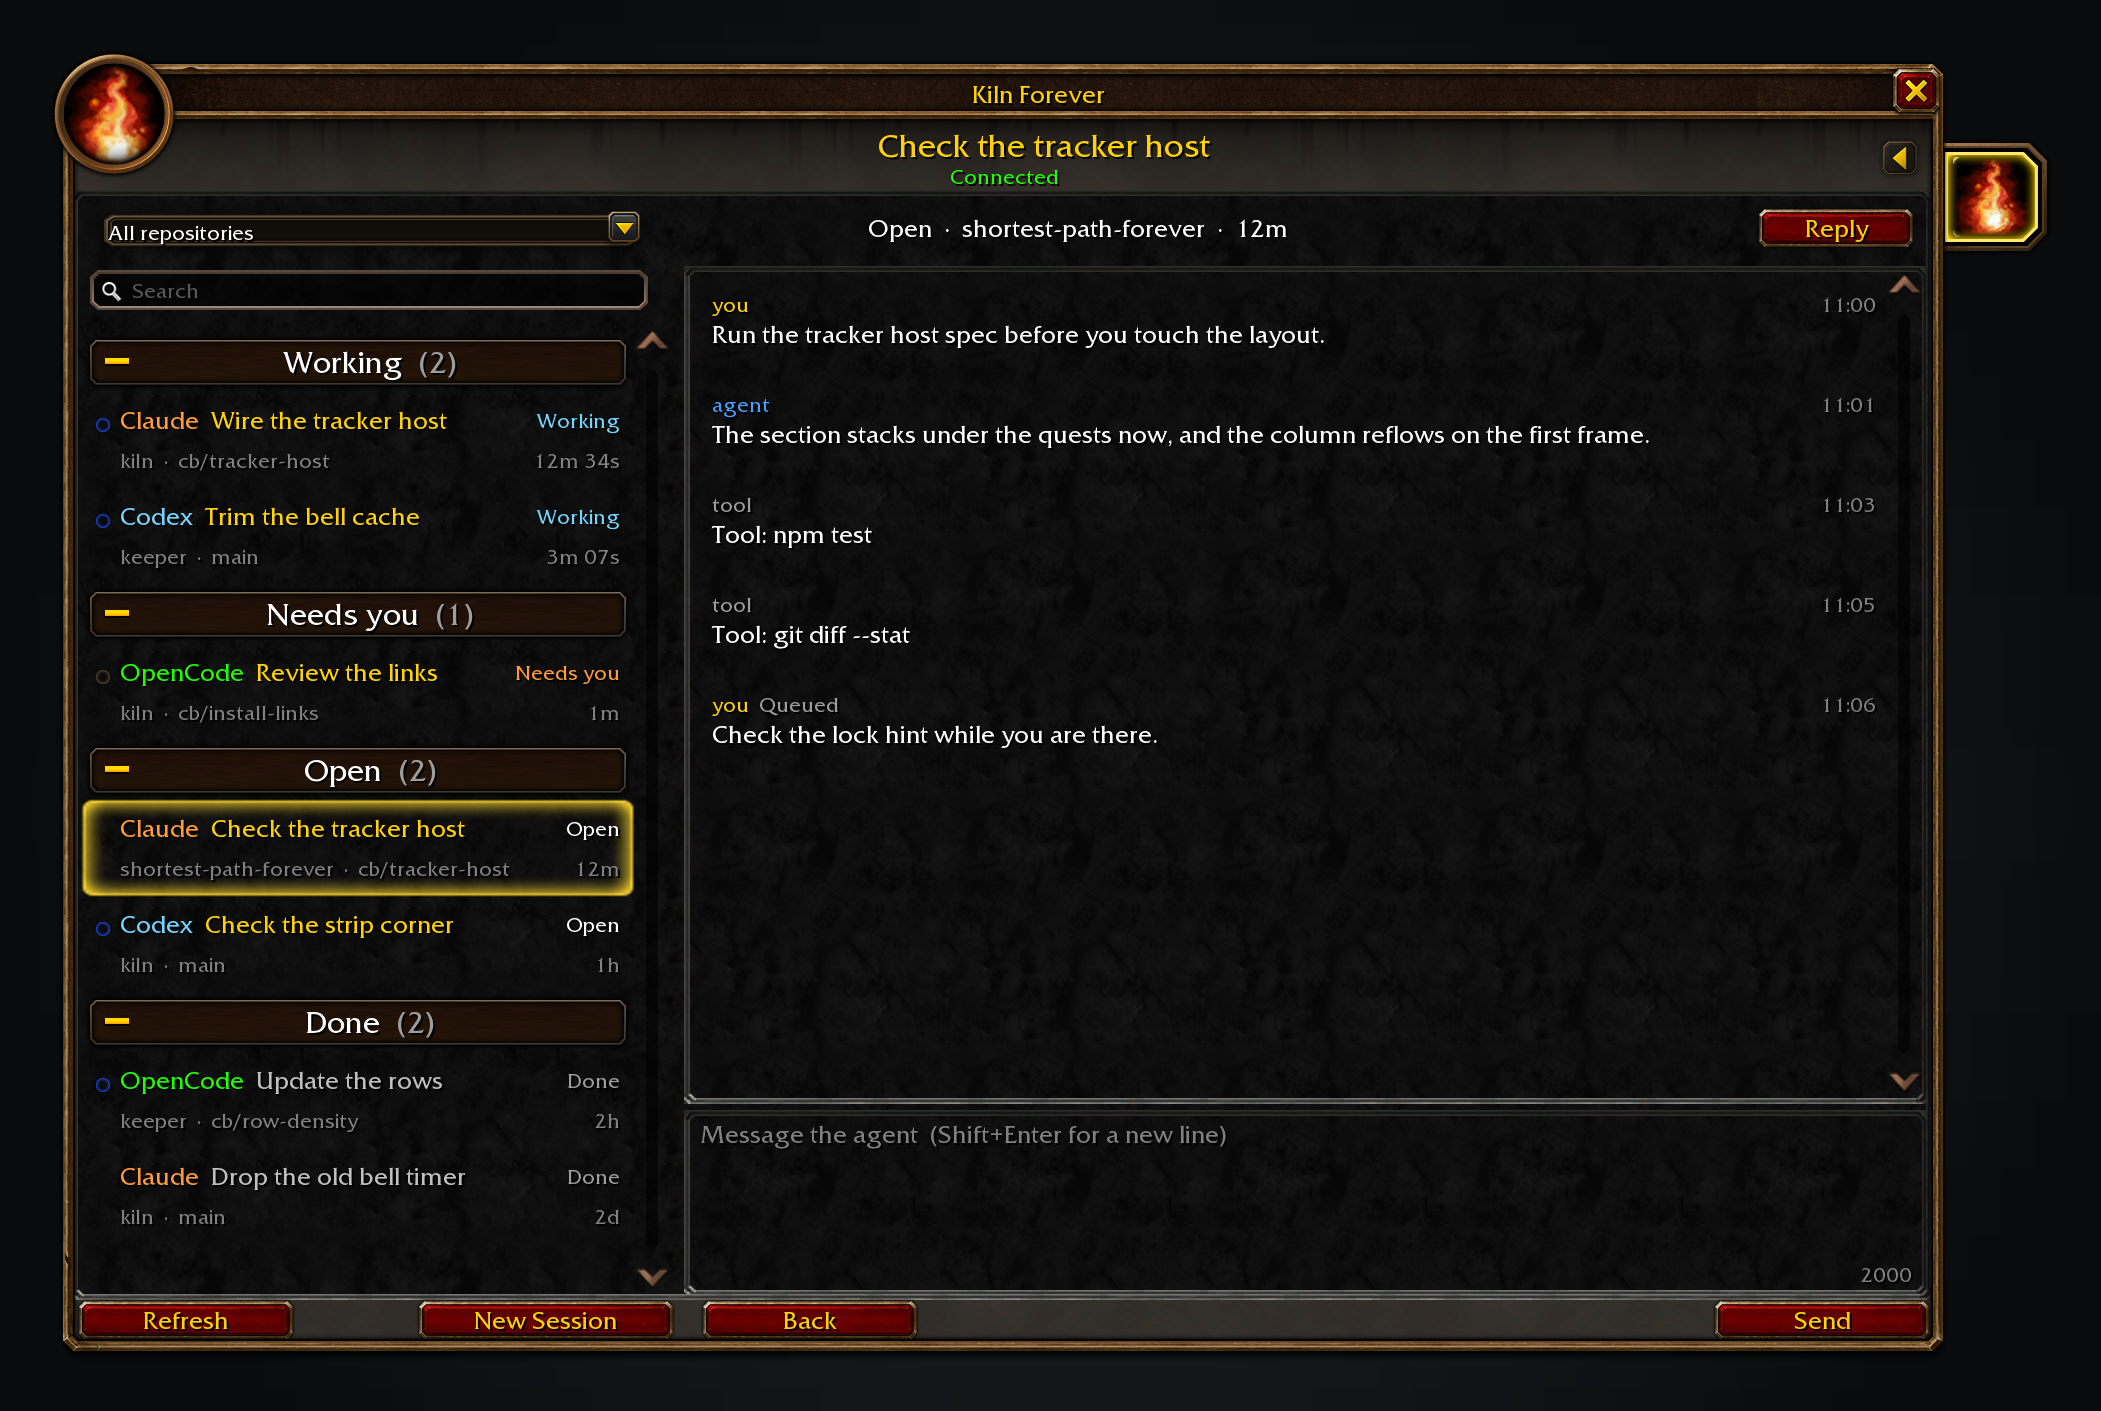
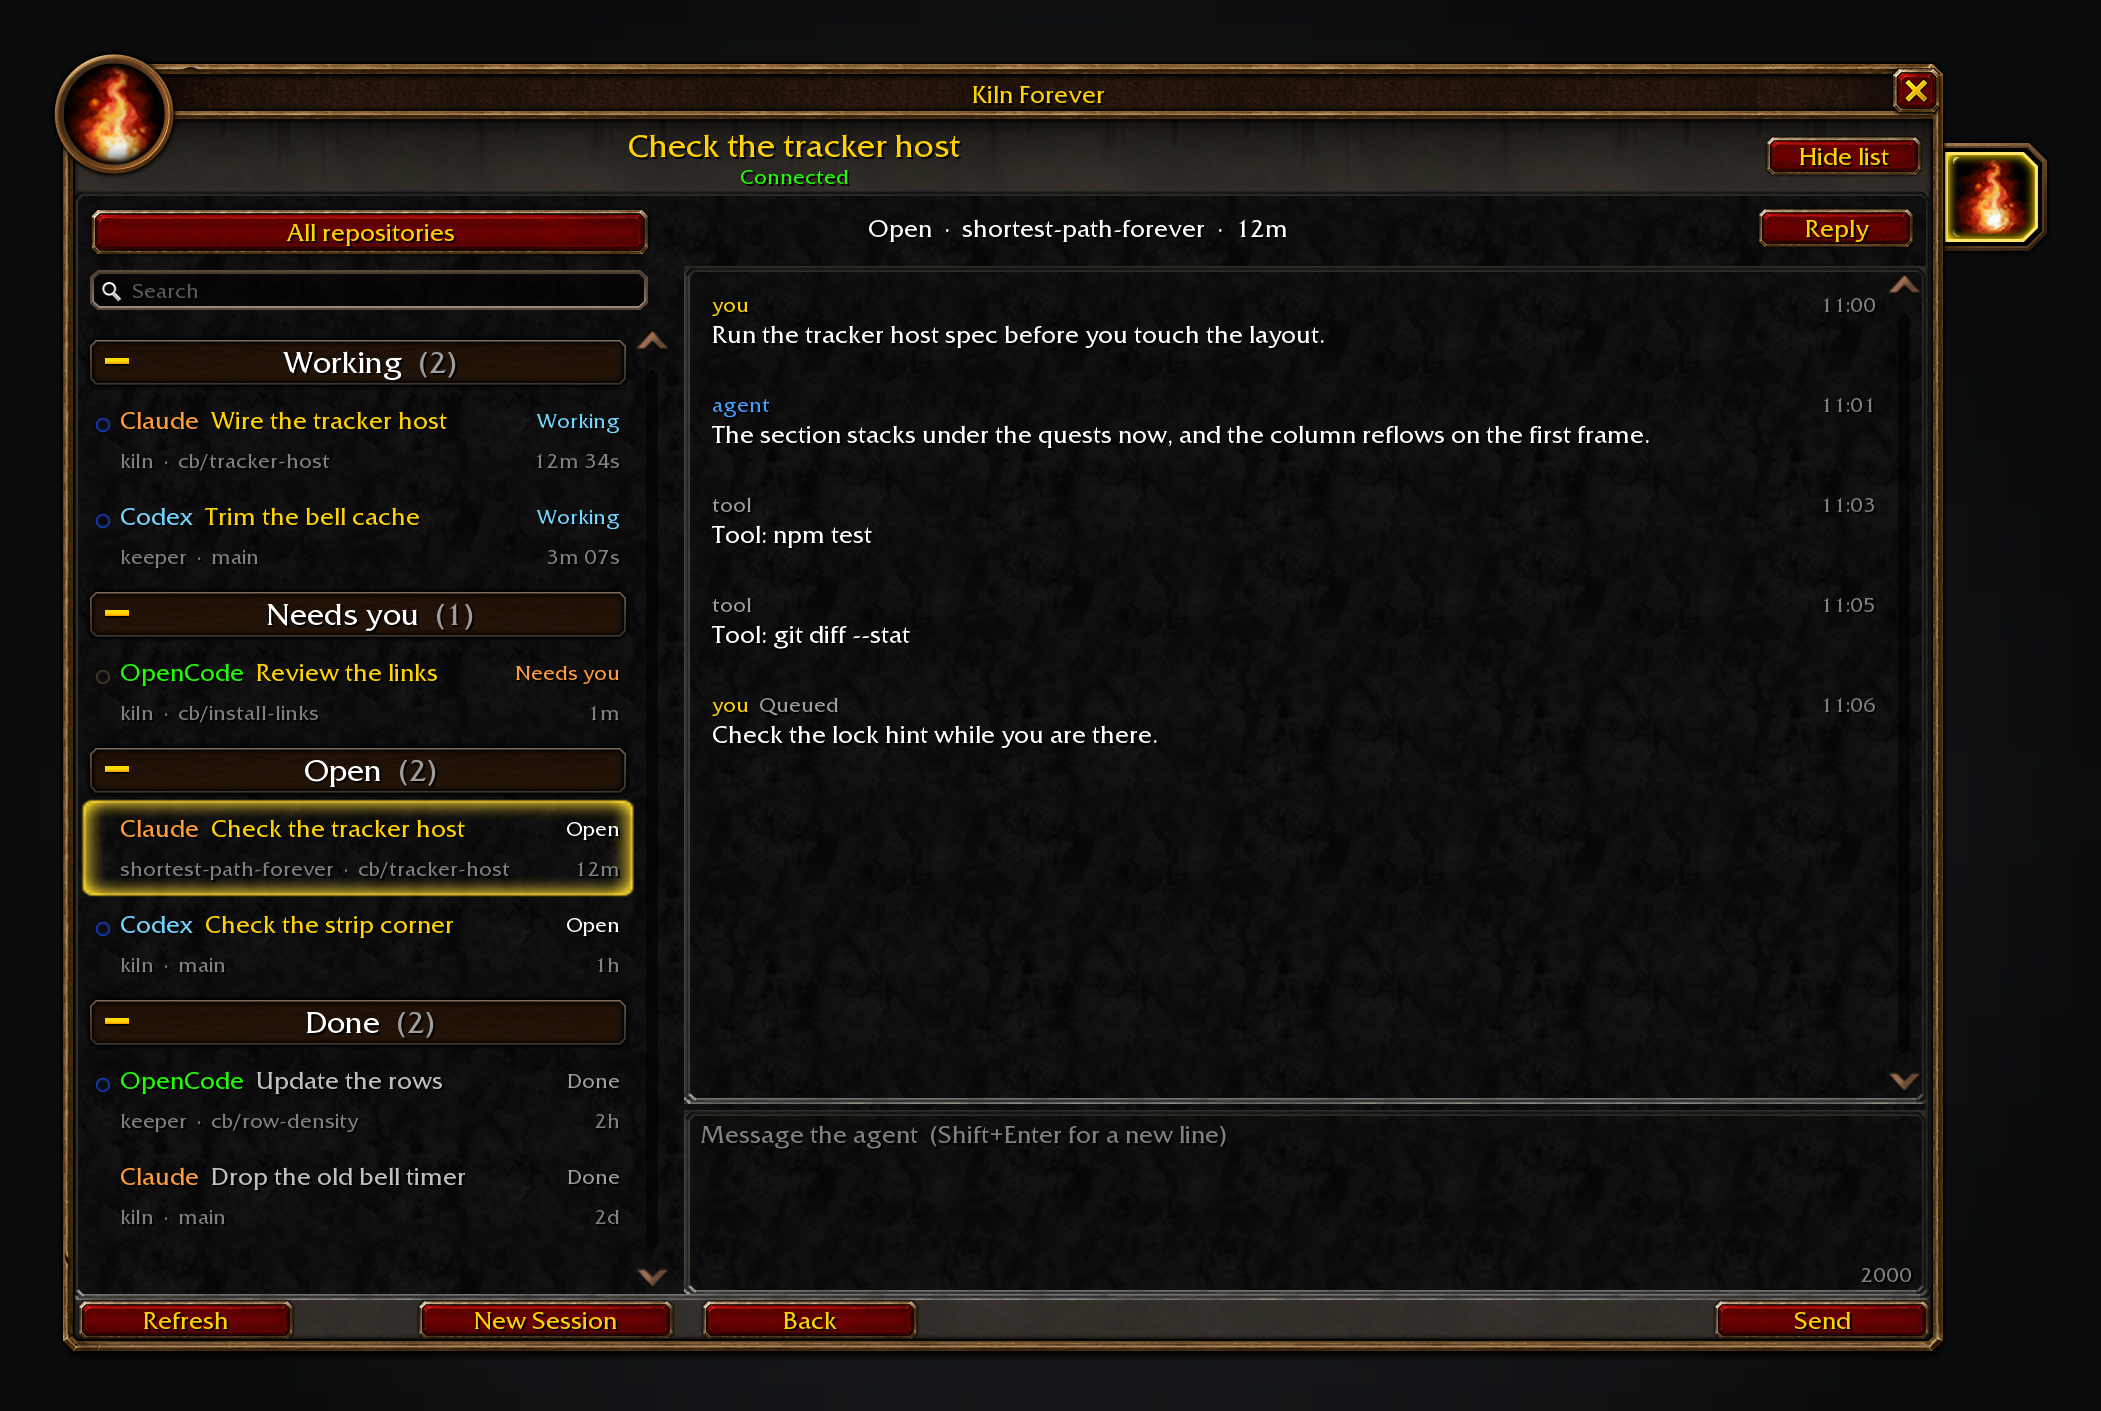
fix(ui): use stock Kiln sidebar and picker controls
Use shared buttons and a native inset for the searchable picker.
Reserve header space for both actions and show the result at both widths.

Changed region(s): [[0.0309, 0.1247, 0.3094, 0.1871], [0.3094, 0.0936, 0.5878, 0.1559], [0.8353, 0.0936, 0.9281, 0.1247]]

diff --git a/tools/screenshots.py b/tools/screenshots.py
@@ -278,21 +278,26 @@ def groups():
 # ------------------------------------------------------------------------------------------ window helpers
 
 
-def draw_dropdown(canvas, x, y, w, h, text):
-    """UI.Cycler (Widgets.lua): the dropdown textholder behind, the arrow at RIGHT (-3, 0), and the
-    GameFontHighlightSmall label from LEFT (10, 0) to the arrow's LEFT (-4, 0)."""
-    ui = canvas.ui
-    canvas.draw(ui.atlas("common-dropdown-textholder"), x, y, w, h)
-    art = ui.atlas("common-dropdown-a-button")
-    aw = ah = 22
-    ax, ay = x + w - 3 - aw, y + (h - ah) / 2
-    canvas.draw(art, ax, ay, aw, ah)
-    canvas.text(x + 10, y, text, FONTS["GameFontHighlightSmall"], box_height=h, width=ax - 4 - (x + 10))
-
-
 def draw_search(canvas, x, y, w, h):
     """SearchBoxTemplate at the list's width, with its instructions showing."""
     search_box(canvas, x, y, w, h, "Search")
+
+
+def draw_project_picker(canvas, x, y, w):
+    """The filter button's picker with the default project selected."""
+    labels = ["All repositories", *(project["name"] for project in PROJECTS)]
+    h = 8 + len(labels) * 22 + 10
+    ui = canvas.ui
+    marble = ui.texture("interface/framegeneral/ui-background-marble.blp")
+    tiled(canvas, marble, x, y, w, h, marble.width / ui.scale, marble.height / ui.scale)
+    canvas.nine_slice(INSET_FRAME_LAYOUT, x, y, w, h)
+    mark = ui.atlas("common-icon-checkmark")
+    scale = 14 / max(mark.width, mark.height)
+    canvas.draw(mark, x + 10, y + 19 - mark.height * scale / 2,
+                mark.width * scale, mark.height * scale)
+    for index, label in enumerate(labels):
+        canvas.text(x + 28, y + 8 + index * 22, label, FONTS["GameFontHighlightSmall"],
+                    color=NORMAL if index == 0 else WHITE, box_height=22, width=w - 38)
 
 
 def draw_side_tab(canvas, x, y, icon):
@@ -321,24 +326,6 @@ def draw_side_tab(canvas, x, y, icon):
 def draw_button(canvas, x, y, w, h, text):
     """UI.Button: SharedButtonSmallTemplate, 22 high, its label in GameFontNormal."""
     three_slice_button(canvas, x, y, w, h, text)
-
-
-def draw_icon_button(canvas, x, y, size, atlas, state="normal"):
-    """UI.IconButton: native gray square button art, with the icon fitted inside size-10."""
-    ui = canvas.ui
-    pressed = state == "pressed"
-    bg = ui.atlas("common-button-square-gray-down" if pressed else "common-button-square-gray-up")
-    factor = size / max(bg.width, bg.height)
-    bx, by = x + (size - bg.width * factor) / 2, y + (size - bg.height * factor) / 2
-    bw, bh = bg.width * factor, bg.height * factor
-    canvas.draw(bg, bx, by, bw, bh)
-    art = ui.atlas(atlas)
-    factor = (size - 10) / max(art.width, art.height)
-    offset = int(pressed)
-    canvas.draw(art, x + (size - art.width * factor) / 2 + offset,
-                y + (size - art.height * factor) / 2 + offset, art.width * factor, art.height * factor)
-    if state == "hover":
-        canvas.draw(bg, bx, by, bw, bh, (1, 1, 1, 0.35), blend="ADD")
 
 
 def draw_thread_row(canvas, x, y, w, item, selected):
@@ -381,7 +368,7 @@ def draw_group_header(canvas, x, y, w, label, count, collapsed):
 def draw_thread_list(canvas, x, y, w, h):
     ui = canvas.ui
     # UI.Dropdown("All repositories") and the SearchBoxTemplate under it.
-    draw_dropdown(canvas, x + 8, y + 8, w - 18, 26, "All repositories")
+    draw_button(canvas, x + 8, y + 8, w - 18, 26, "All repositories")
     draw_search(canvas, x + 14, y + 40, w - 26, 20)
     # WowScrollBoxList at TOPLEFT (4, -70) to BOTTOMRIGHT (-18, 4); view padding 2 and spacing 2.
     box_x, box_y, box_w, box_h = x + 4, y + 70, w - 22, h - 74
@@ -412,11 +399,13 @@ def draw_message(canvas, x, y, w, msg):
             "system": color("grey", "kiln"),
         }.get(msg["r"], color("grey", "tool"))
     canvas.text(x + 10, y + 6, label, FONTS["GameFontNormalSmall"])
-    assert canvas.text_width(msg["t"], FONTS["GameFontHighlight"]) <= w - 20 - 26 + 0.5, "wrapped transcript body"
-    canvas.text(x + 10, y + 20, msg["t"], FONTS["GameFontHighlight"], width=w - 20 - 26)
+    font = FONTS["GameFontHighlight"]
+    lines = wrap_text(canvas, msg["t"], font, w - 20 - 26)
+    for index, line in enumerate(lines):
+        canvas.text(x + 10, y + 20 + index * (font.height + 2), line, font)
     if msg.get("at"):
         canvas.text(x + w - 6, y + 6, clock(msg["at"]), FONTS["GameFontDisableSmall"], justify="RIGHT", width=0)
-    return 46
+    return 34 + len(lines) * (font.height + 2) - 2
 
 
 def draw_transcript(canvas, x, y, w, h):
@@ -450,17 +439,17 @@ def draw_header(canvas, x, y, w, h):
         draw_button(canvas, x + w - 4 - 80, y + 4, 80, 22, "Reply")
 
 
-def window_canvas(ui, sidebar_state="normal"):
-    canvas = ui.canvas(1032, 680)
+def window_canvas(ui, width=WINDOW_W, picker_open=False):
+    canvas = ui.canvas(width + 92, 680)
     x, y = FRAME_X, FRAME_Y
     rock = ui.texture("interface/framegeneral/ui-background-rock.blp")
-    tiled(canvas, rock, x + 2, y + 21, WINDOW_W - 4, WINDOW_H - 23, rock.width / ui.scale,
+    tiled(canvas, rock, x + 2, y + 21, width - 4, WINDOW_H - 23, rock.width / ui.scale,
           rock.height / ui.scale)
     streaks = ui.atlas("_UI-Frame-TopTileStreaks")
-    canvas.draw(streaks, x + 6, y + 21, WINDOW_W - 8, 43)
+    canvas.draw(streaks, x + 6, y + 21, width - 8, 43)
 
     # ButtonFrameTemplate's Inset at TOPLEFT (4, -60) to BOTTOMRIGHT (-6, 26).
-    ix, iy, iw, ih = x + 4, y + 60, WINDOW_W - 10, WINDOW_H - 86
+    ix, iy, iw, ih = x + 4, y + 60, width - 10, WINDOW_H - 86
     marble = ui.texture("interface/framegeneral/ui-background-marble.blp")
     tiled(canvas, marble, ix, iy, iw, ih, marble.width / ui.scale, marble.height / ui.scale)
 
@@ -493,25 +482,24 @@ def window_canvas(ui, sidebar_state="normal"):
     draw_button(canvas, x + 6, y + WINDOW_H - 4 - 22, 110, 22, "Refresh")
     draw_button(canvas, x + 176, y + WINDOW_H - 4 - 22, 130, 22, "New Session")
     draw_button(canvas, x + 318, y + WINDOW_H - 4 - 22, 110, 22, "Back")
-    draw_button(canvas, x + WINDOW_W - 6 - 110, y + WINDOW_H - 4 - 22, 110, 22, "Send")
+    draw_button(canvas, x + width - 6 - 110, y + WINDOW_H - 4 - 22, 110, 22, "Send")
 
     # The window's one LargeSideTabButtonTemplate, checked on the threads page.
     icon = ui.texture("interface/icons/spell_fire_fire.blp")
-    draw_side_tab(canvas, x + WINDOW_W, y + 36, icon)
+    draw_side_tab(canvas, x + width, y + 36, icon)
 
-    # Subtitle: the selected session's title, then the link status under it (MainFrame.lua's
-    # f.Subtitle at TOP (20, -30) and f.Status at its BOTTOM (0, -2)).
-    canvas.text(x + WINDOW_W / 2 + 20 - (WINDOW_W - 220) / 2, y + 30, item["title"],
-                FONTS["GameFontNormalLarge"], justify="CENTER", width=WINDOW_W - 220)
-    canvas.text(x + WINDOW_W / 2 - (WINDOW_W - 220) / 2, y + 48, color("green", "Connected"),
-                FONTS["GameFontGreenSmall"], justify="CENTER", width=WINDOW_W - 220)
+    # The subtitle and status share the region between the portrait and the header buttons.
+    title_x = x + 66
+    title_w = width - 66 - 10 - 80 - 8 - 170 - 8
+    canvas.text(title_x, y + 30, item["title"], FONTS["GameFontNormalLarge"], justify="CENTER", width=title_w)
+    canvas.text(title_x, y + 48, color("green", "Connected"), FONTS["GameFontGreenSmall"], justify="CENTER", width=title_w)
 
-    # Collapse the thread list: UI.IconButton at TOPRIGHT (-10, -32), the back arrow facing left
-    # while the list is shown.
-    draw_icon_button(canvas, x + WINDOW_W - 10 - 24, y + 32, 24, "common-dropdown-icon-back", sidebar_state)
+    draw_button(canvas, x + width - 10 - 80, y + 32, 80, 22, "Hide list")
 
     # PortraitFrameTemplate: the masked portrait, the metal frame, the title and the close button.
-    portrait_frame_art(canvas, x, y, WINDOW_W, WINDOW_H, icon, "Kiln Forever")
+    portrait_frame_art(canvas, x, y, width, WINDOW_H, icon, "Kiln Forever")
+    if picker_open:
+        draw_project_picker(canvas, left_x + 8, left_y + 36, left_w - 18)
     return canvas
 
 
